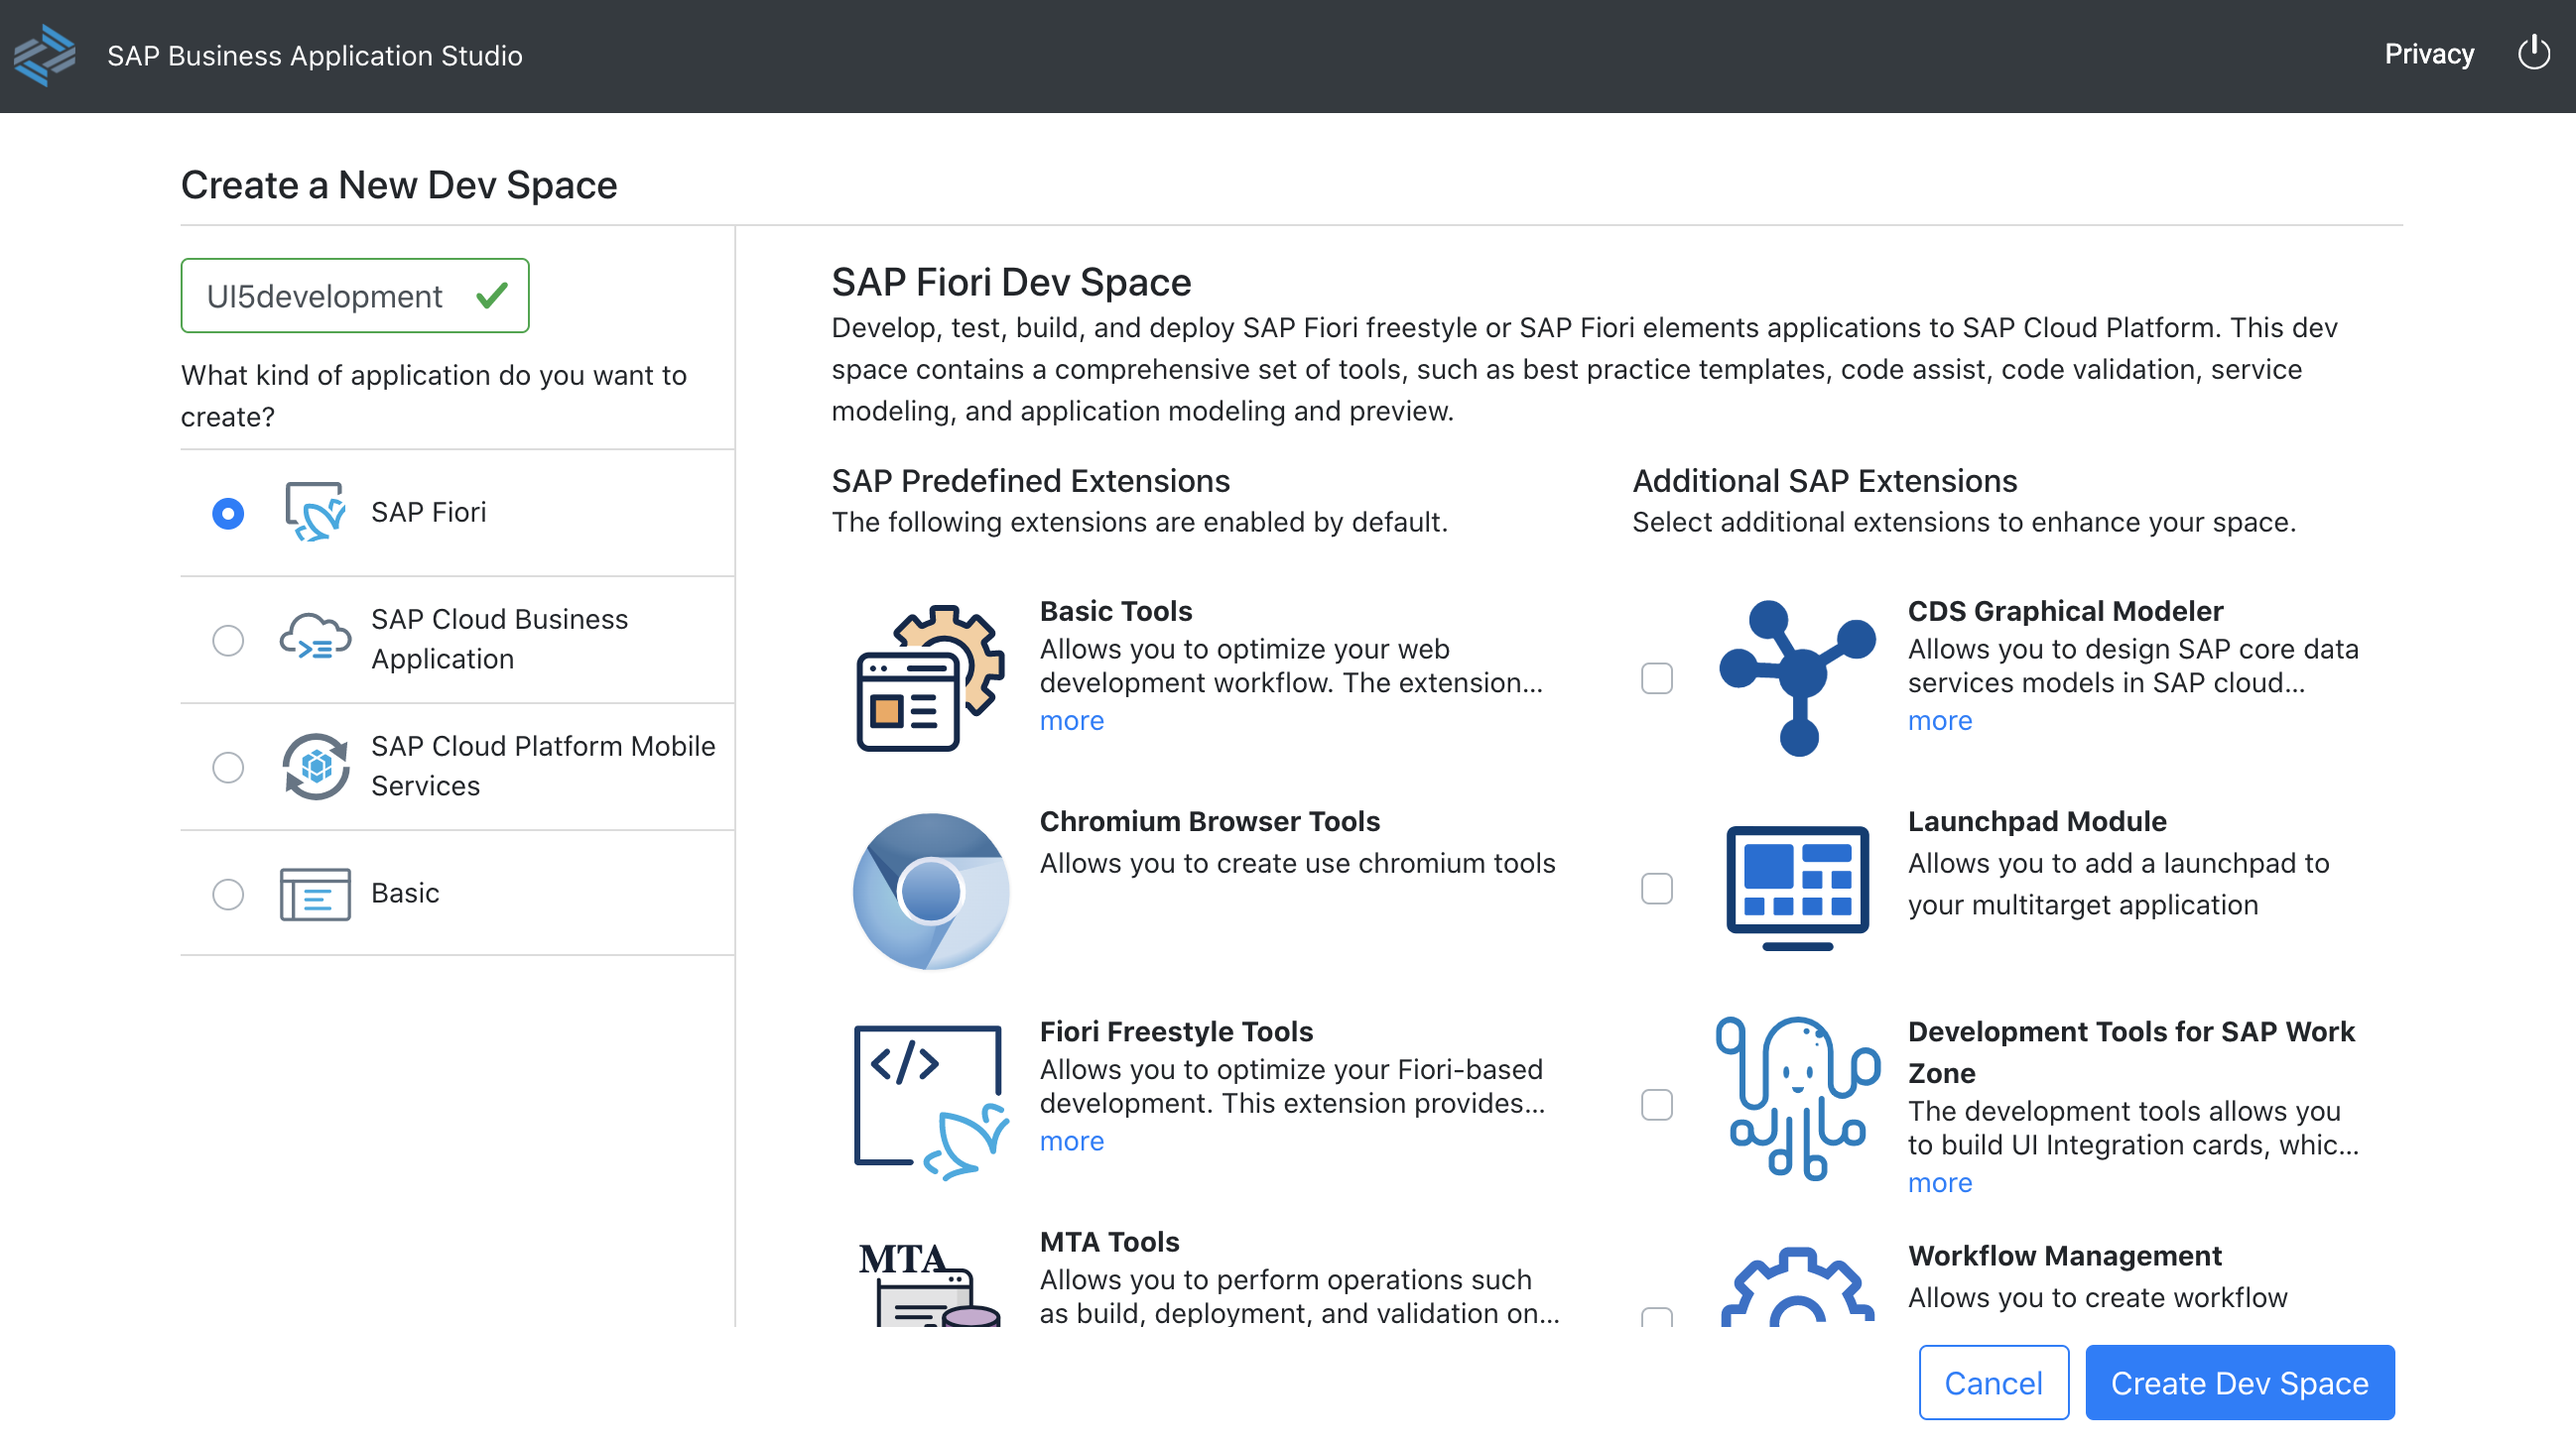
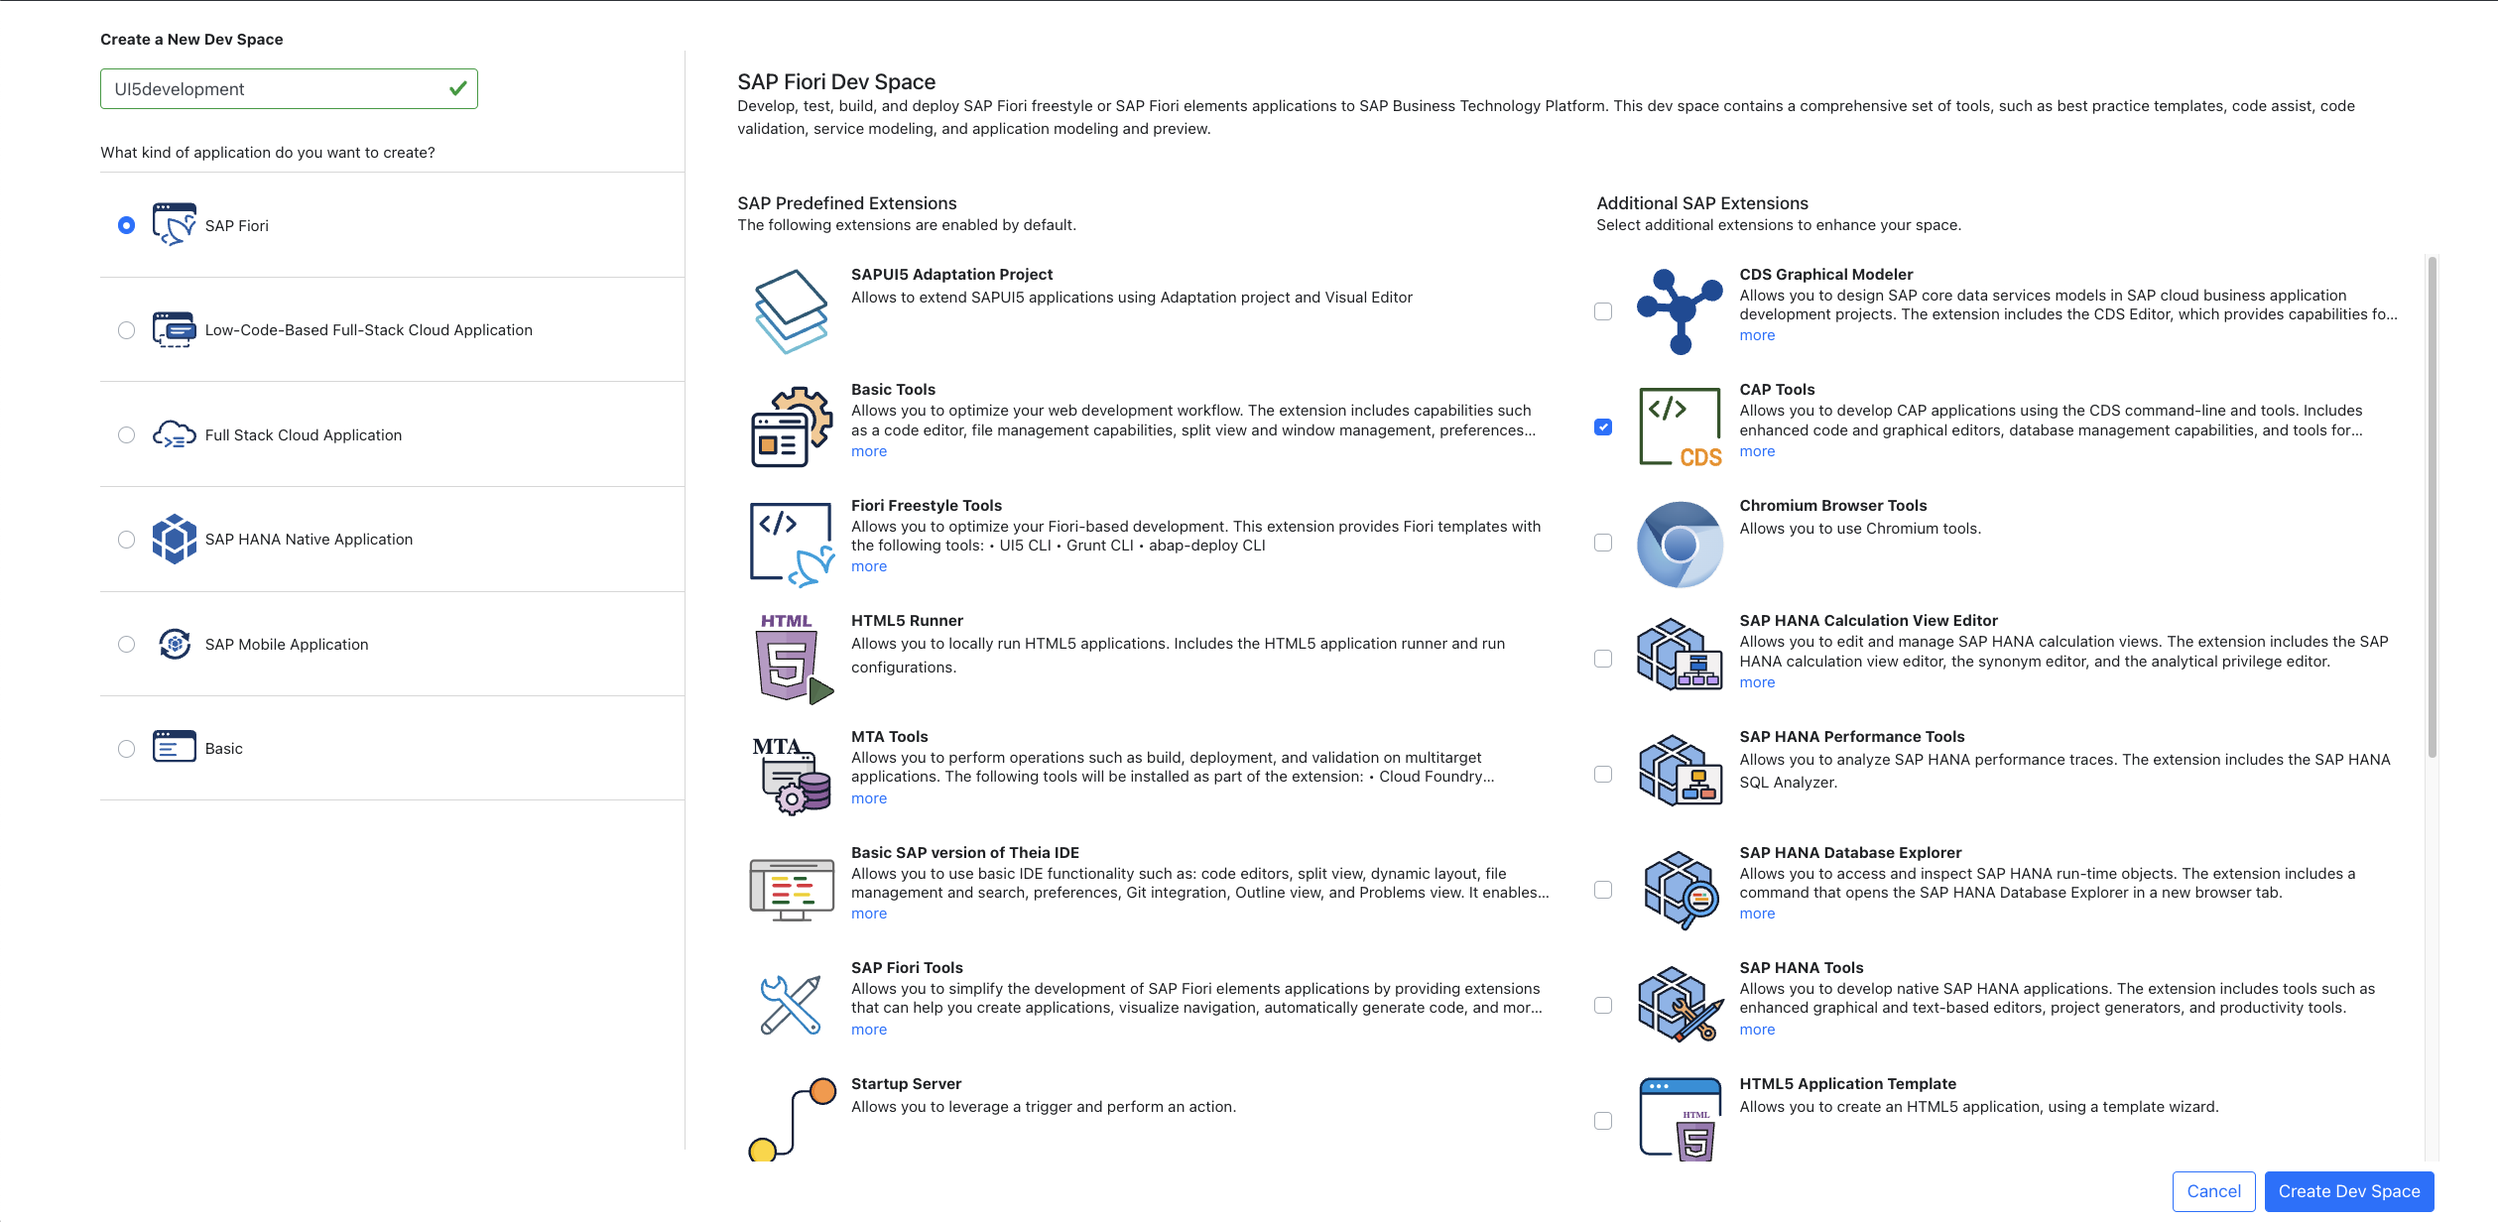
update screenshot in ex0

diff --git a/JavaScript/exercises/ex0/README.md b/JavaScript/exercises/ex0/README.md
@@ -13,7 +13,7 @@ After completing these steps you will know how to open SAP Business Application 
 3. Now you can create your dev space! Click *Create Dev Space*.
 <br><br>![](images/00_01_0010.png)<br><br>
 
-4. Enter the new name of your dev space, e.g. *UI5development*, select *SAP Fiori* as application type, and click *Create Dev Space*.
+4. Enter the new name of your dev space, e.g. *UI5development*, select *SAP Fiori* as application type, select *CAP tools* in addition and and click *Create Dev Space*.
 <br><br>![](images/00_01_0020.png)<br><br>
 
 5. Your dev space is being prepared and starts up. This might take a few minutes. Wait until the status shows *RUNNING*.

diff --git a/TypeScript/exercises/ex0/README.md b/TypeScript/exercises/ex0/README.md
@@ -13,7 +13,7 @@ After completing these steps you will know how to open SAP Business Application 
 3. Now you can create your dev space! Click *Create Dev Space*.
 <br><br>![](images/00_01_0010.png)<br><br>
 
-4. Enter the new name of your dev space, e.g. *UI5development*, select *SAP Fiori* as application type, and click *Create Dev Space*.
+4. Enter the new name of your dev space, e.g. *UI5development*, select *SAP Fiori* as application type, select *CAP tools* in addition and and click *Create Dev Space*.
 <br><br>![](images/00_01_0020.png)<br><br>
 
 5. Your dev space is being prepared and starts up. This might take a few minutes. Wait until the status shows *RUNNING*.
